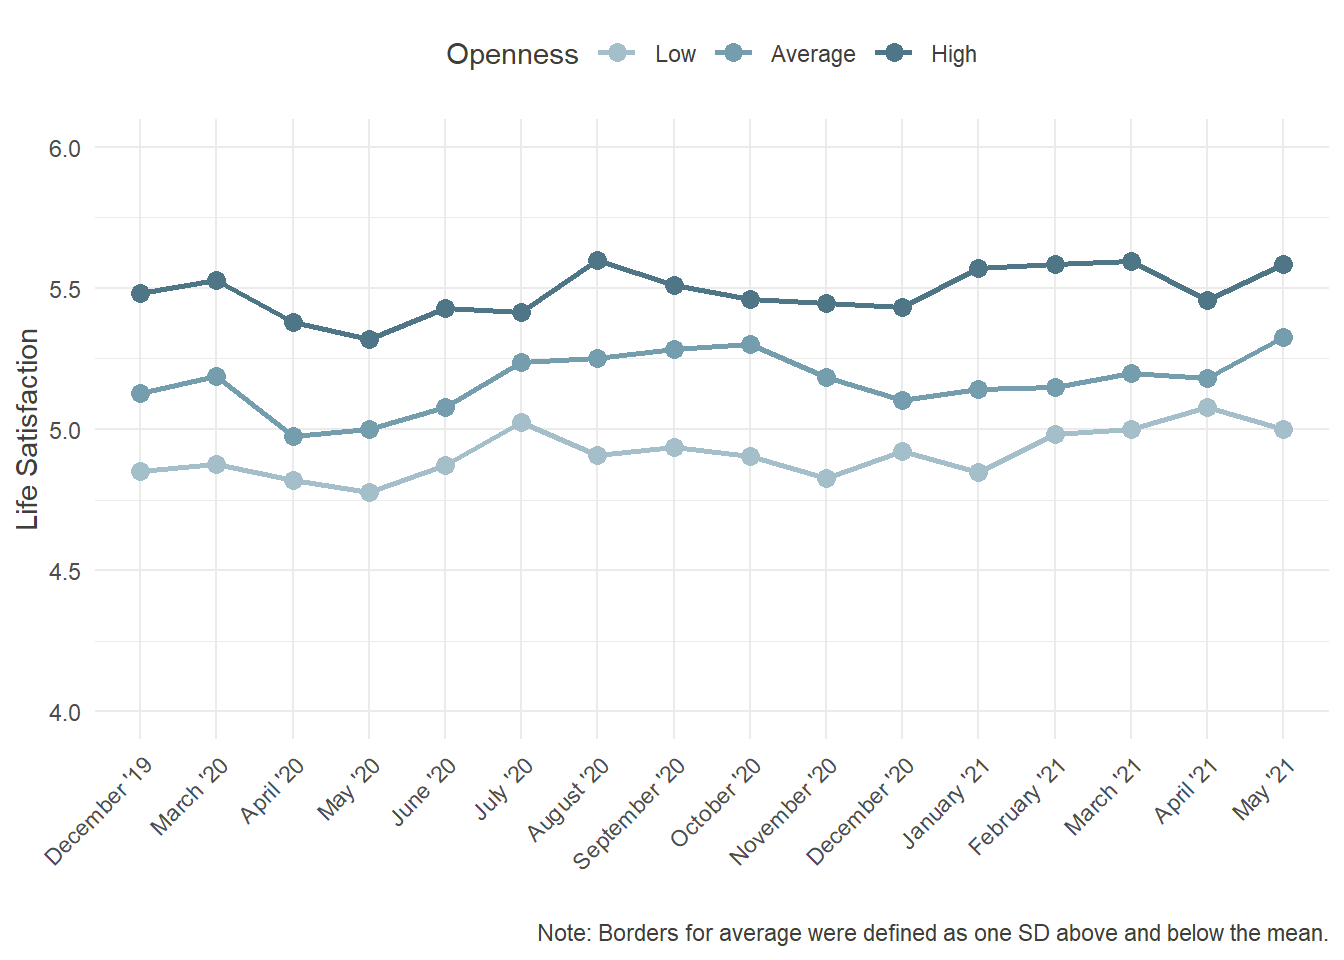
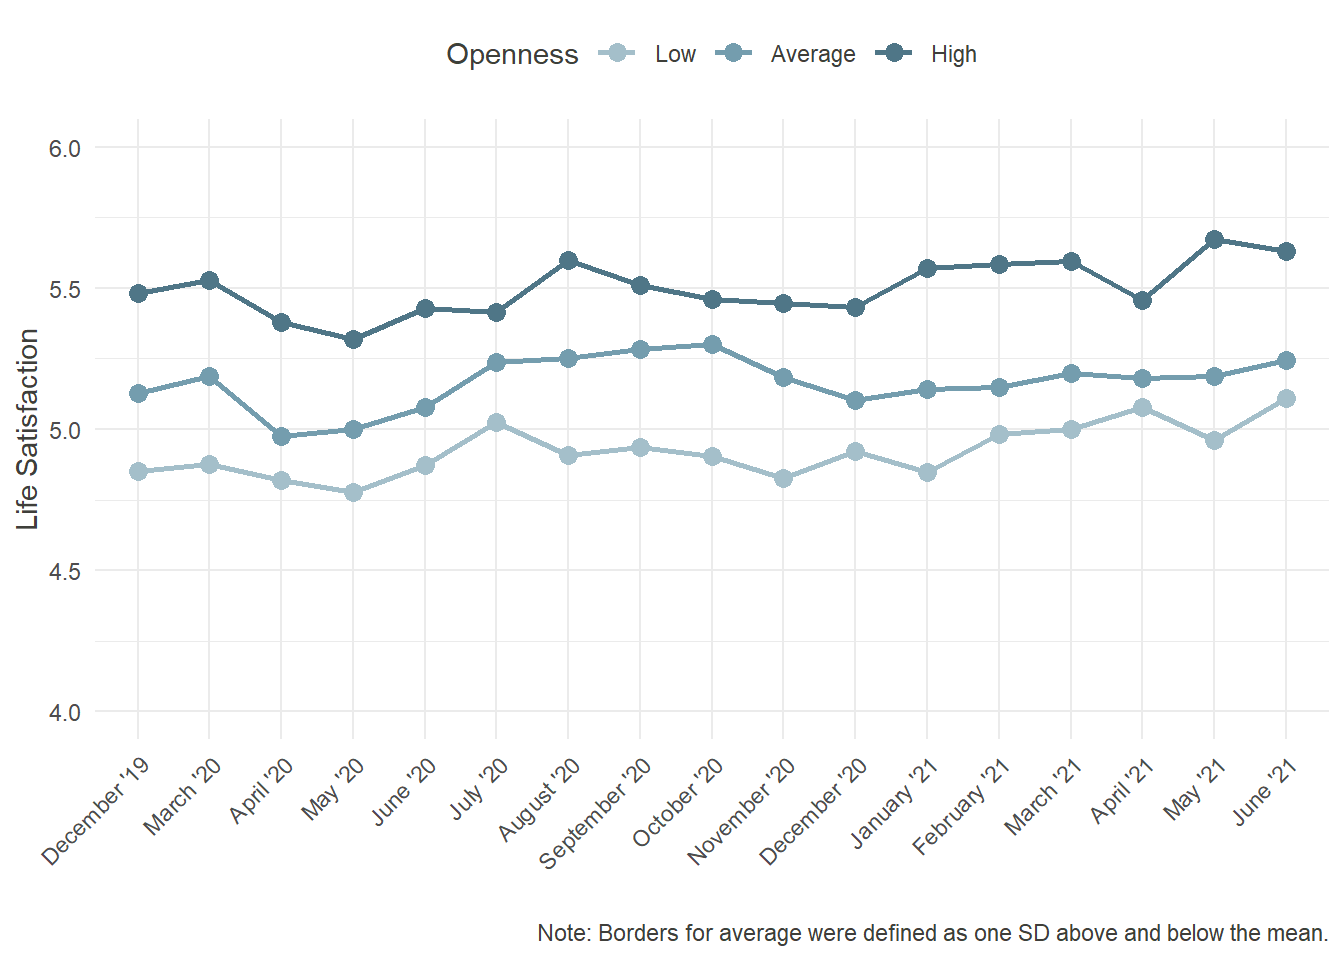
Added Text and new wave

diff --git a/docs/Personality.html b/docs/Personality.html
@@ -60,6 +60,28 @@ if (window.hljs) {
 
 
 
+<style type="text/css">
+/* for pandoc --citeproc since 2.11 */
+div.csl-bib-body { }
+div.csl-entry {
+  clear: both;
+}
+.hanging div.csl-entry {
+  margin-left:2em;
+  text-indent:-2em;
+}
+div.csl-left-margin {
+  min-width:2em;
+  float:left;
+}
+div.csl-right-inline {
+  margin-left:2em;
+  padding-left:1em;
+}
+div.csl-indent {
+  margin-left: 2em;
+}
+</style>
 
 
 
@@ -330,6 +352,9 @@ div.tocify {
 <li>
   <a href="HomeOffice.html">Home Office</a>
 </li>
+<li>
+  <a href="Personality.html">Personality</a>
+</li>
       </ul>
       <ul class="nav navbar-nav navbar-right">
         
@@ -364,12 +389,13 @@ div.tocify {
 </style>
 <div id="introduction" class="section level1" number="1">
 <h1 number="1"><span class="header-section-number">1</span> Introduction</h1>
-<p>Lorem ipsum dolor sit amet, consectetuer adipiscing elit. Aenean commodo ligula eget dolor. Aenean massa. Cum sociis natoque penatibus et magnis dis parturient montes, nascetur ridiculus mus. Donec quam felis, ultricies nec, pellentesque eu, pretium quis, sem. Nulla consequat massa quis enim. Donec pede justo, fringilla vel, aliquet nec, vulputate eget, arcu. In enim justo, rhoncus ut, imperdiet a, venenatis vitae, justo. Nullam dictum felis eu pede mollis pretium. Integer tincidunt. Cras dapibus. Vivamus elementum semper nisi. Aenean vulputate eleifend tellus. Aenean leo ligula, porttitor eu, consequat vitae, eleifend ac, enim.</p>
+<p>The COVID-19 crisis can be described as a far-reaching, drastic event, that affected everybody globally in some shape or form. How people react to the crisis is affected by multiple factors, such as government restrictions and communication, social surrounding and socioeconomic status and <b>individual traits and attitudes</b>.<br> The influence could be reciprocal, though. On the one hand, the new and unknown challenges the pandemic entailed might have been more burdensome for some people than for others, regardless of external circumstances. For example individuals with high <b>neuroticism</b>, the tendency to react emotionally to stressors and to get nervous easily, might have had less internal resources to cope with the uncertainty and additional demands that came with the pandemic. Another trait, commonly viewed as more desirable, could also be rather dysfunctional under the circumstances of the crisis: <b>Extraversion</b>. While normally the tendency to be outgoing and to connect to other people easily would be seen as helpful and attractive, in the context of contact restrictions and government mandated stay-at-home orders this personal quality could be dysfunctional and strenuous. </b><br> On the other hand, the deep impact the crisis had on everyone’s personal life might have also lead to some <b>changes</b> in personality. This could manifest in a rather negative fashion, for example through <b>higher emotional instability</b>, but also positively through a more <b>mindful</b> attitude towards oneself. This forced pause in many lives, not including those who work in essential businesses of course, might have given some people the possibility to reflect upon their daily routines and hassles. Having had to <b>take a step back</b> and sit some part of this pandemic out could have resulted in a number of people being more mindful of themselves and their needs and desires. <br> All in all, personality certainly plays a key role in coping with the COVID-19 crisis. We were fortunate enough to have measured some aspects of personality in <b>December of 2019</b>, before the virus spread globally, and then at later points during the pandemic. This allows us to analyze the effect personality had on indicators of <b>well-being</b>, but also look at potential <b>changes of personality</b> itself. In the following sections, we present descriptive, rudimentary results from our longitudinal survey, first assessing the baseline personality of our participants, then considering possible variation over time, and finally analising the relationship of personality and life satisfaction.</p>
 </div>
 <div id="personality-in-december" class="section level1" number="2">
 <h1 number="2"><span class="header-section-number">2</span> Personality in December</h1>
 <div id="big-five" class="section level2 tabset tabset-fade" number="2.1">
 <h2 class="tabset tabset-fade" number="2.1"><span class="header-section-number">2.1</span> Big Five</h2>
+<p>To assess the Big-Five personality traits we used the translated short version of the Big Five Inventory <span class="citation">(Rammstedt &amp; John, 2005)</span>. We administered it in December ’19, June ’20 and March ’21. <br></p>
 <div id="extraversion" class="section level3 unnumbered">
 <h3 class="unnumbered">Extraversion</h3>
 <pre class="r"><code>density_EX_T1 = ggplot(data_pers, aes(T1_extraversion))+
@@ -384,8 +410,7 @@ div.tocify {
   font_colour
 
 density_EX_T1</code></pre>
-<p><img src="Personality_files/figure-html/density%20Extrav%20-1.png" width="672" /></p>
-<p>Lorem ipsum dolor sit amet, consectetuer adipiscing elit. Aenean commodo ligula eget dolor. Aenean massa. Cum sociis natoque penatibus et magnis dis parturient montes, nascetur ridiculus mus. Donec quam felis, ultricies nec, pellentesque eu, pretium quis, sem. Nulla consequat massa quis enim. Donec pede justo, fringilla vel, aliquet nec, vulputate eget, arcu. In enim justo, rhoncus ut, imperdiet a, venenatis vitae, justo.</p>
+<p><img src="Personality_files/figure-html/density%20Extrav%20-1.png" width="672" /> <br> Extraversion is being defined as characteristically having skills, enterprising vocational interests, participation in sports, and so on <span class="citation">(McCrea &amp; Costa, 1999)</span>. All in all, it can be seen as the tendency to be outgoing and sociable. As mostly expected from personality traits, the distribution here generally follows a normal distribution, with slightly more participants indicating higher values and overall more extreme expressions. <br></p>
 </div>
 <div id="agreeableness" class="section level3 unnumbered">
 <h3 class="unnumbered">Agreeableness</h3>
@@ -401,7 +426,7 @@ density_EX_T1</code></pre>
   font_colour
 
 density_AG_T1</code></pre>
-<p><img src="Personality_files/figure-html/density%20Agr%20-1.png" width="672" /></p>
+<p><img src="Personality_files/figure-html/density%20Agr%20-1.png" width="672" /> <br> Agreeableness is being defined as having forgiving attitudes, believing in cooperation and using inoffensive language <span class="citation">(McCrea &amp; Costa, 1999)</span>. More generally speaking, it represents the desire or inner motive of communion and social acceptance. In our sample, it followed a normal distribution, with slightly more people indicating higher values.</p>
 </div>
 <div id="openness" class="section level3 unnumbered">
 <h3 class="unnumbered">Openness</h3>
@@ -417,7 +442,7 @@ density_AG_T1</code></pre>
   font_colour
 
 density_OP_T1</code></pre>
-<p><img src="Personality_files/figure-html/density%20Open%20-1.png" width="672" /></p>
+<p><img src="Personality_files/figure-html/density%20Open%20-1.png" width="672" /> <br> People scoring high on openness to (new) experiences tend to be interested in travel and culture, have many different hobbies and diverse vocational interests <span class="citation">(McCrea &amp; Costa, 1999)</span>. It is the tendency to be curious about and having an open attitude towards culture, the arts and experiences overall. Our participants characterized themselves as being rather open. The assumption of normality might be false.</p>
 </div>
 <div id="conscientiousness" class="section level3 unnumbered">
 <h3 class="unnumbered">Conscientiousness</h3>
@@ -433,7 +458,7 @@ density_OP_T1</code></pre>
   font_colour
 
 density_CO_T1</code></pre>
-<p><img src="Personality_files/figure-html/density%20Consc%20-1.png" width="672" /></p>
+<p><img src="Personality_files/figure-html/density%20Consc%20-1.png" width="672" /> <br> Being conscientious generally means to be organized, diligent, reliable and to make long-term plans. Scoring high on this dimension indicates a need to do everything right and on time. Our sample described itself as being rather conscientious, forming a skewed distribution favoring higher values. If that is really true or an indicator of social desirability cannot be said at this point.</p>
 </div>
 <div id="emotional-stability" class="section level3 unnumbered">
 <h3 class="unnumbered">Emotional Stability</h3>
@@ -449,7 +474,7 @@ density_CO_T1</code></pre>
   font_colour
 
 density_ES_T1</code></pre>
-<p><img src="Personality_files/figure-html/density%20EmStab%20-1.png" width="672" /></p>
+<p><img src="Personality_files/figure-html/density%20EmStab%20-1.png" width="672" /> <br> Emotional stability, or inversely coded as neuroticism, is regarded as having a high self esteem and optimistic attitudes <span class="citation">(McCrea &amp; Costa, 1999)</span>. People with high emotional stability tend to be more resilient when facing adversity and more calm in general. As with most of the traits above, we found a rather skewed distribution, with more people indicating higher values.</p>
 </div>
 </div>
 <div id="mindfulness---trait" class="section level2 tabset tabset-fade" number="2.2">
@@ -773,7 +798,8 @@ proact_change</code></pre>
 
 CSE_change</code></pre>
 <p><img src="Personality_files/figure-html/change%20CSE-1.png" width="672" /></p>
-<p>Further Ideas: Life Satisfaction depending on Personality traits and mindfulness PTG over Time</p>
+<p>Further Ideas:</p>
+<p>PTG over Time</p>
 </div>
 </div>
 <div id="life-satisfaction-depending-on-traits" class="section level1" number="4">
@@ -1081,25 +1107,15 @@ lifesat_proact</code></pre>
 
 lifesat_CSE</code></pre>
 <p><img src="Personality_files/figure-html/sat%20CSE-1.png" width="672" /></p>
+<div id="refs" class="references csl-bib-body hanging-indent" line-spacing="2">
+<div id="ref-McCrea.1999" class="csl-entry">
+McCrea, R. R., &amp; Costa, P. T. (1999). A five-factor theory of personality. In L. A. Pervin &amp; O. P. John (Eds.), <em>Handbook of personality</em> (pp. 139–153). Guilford.
+</div>
+<div id="ref-Rammstedt.2005" class="csl-entry">
+Rammstedt, B., &amp; John, O. P. (2005). Kurzversion des big five inventory (BFI-k). <em>Diagnostica</em>, <em>51</em>(4), 195–206. <a href="https://doi.org/10.1026/0012-1924.51.4.195">https://doi.org/10.1026/0012-1924.51.4.195</a>
 </div>
 </div>
-<div id="header-1" class="section level1 tabset tabset-fade" number="5">
-<h1 class="tabset tabset-fade" number="5"><span class="header-section-number">5</span> Header 1</h1>
-<div id="plot" class="section level2 unnumbered">
-<h2 class="unnumbered">Plot</h2>
 </div>
-<div id="more-information" class="section level2 unnumbered">
-<h2 class="unnumbered">More Information</h2>
-</div>
-</div>
-<div id="section" class="section level1 unnumbered toc-ignore">
-<h1 class="unnumbered toc-ignore"></h1>
-<div id="header-2" class="section level2" number="5.1">
-<h2 number="5.1"><span class="header-section-number">5.1</span> Header 2</h2>
-</div>
-</div>
-<div id="header-1-1" class="section level1" number="6">
-<h1 number="6"><span class="header-section-number">6</span> Header 1</h1>
 </div>
 
 
@@ -1165,7 +1181,7 @@ $(document).ready(function ()  {
 
     // establish options
     var options = {
-      selectors: "h1",
+      selectors: "h1,h2",
       theme: "bootstrap3",
       context: '.toc-content',
       hashGenerator: function (text) {

diff --git a/articles.html b/articles.html
@@ -254,6 +254,9 @@ $(document).ready(function () {
 <li>
   <a href="HomeOffice.html">Home Office</a>
 </li>
+<li>
+  <a href="Personality.html">Personality</a>
+</li>
       </ul>
       <ul class="nav navbar-nav navbar-right">
         

diff --git a/docs/articles.html b/docs/articles.html
@@ -254,6 +254,9 @@ $(document).ready(function () {
 <li>
   <a href="HomeOffice.html">Home Office</a>
 </li>
+<li>
+  <a href="Personality.html">Personality</a>
+</li>
       </ul>
       <ul class="nav navbar-nav navbar-right">
         
